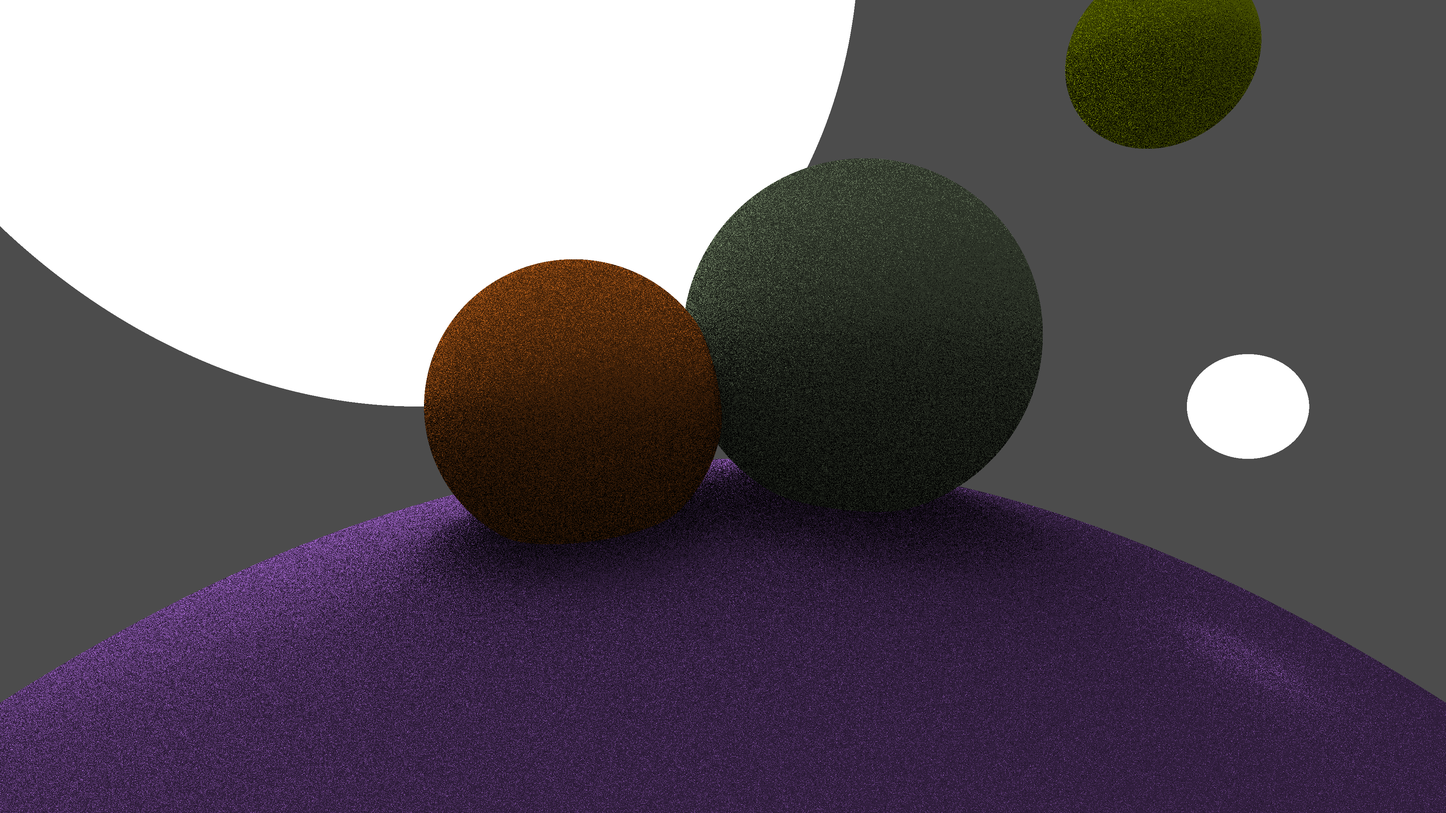
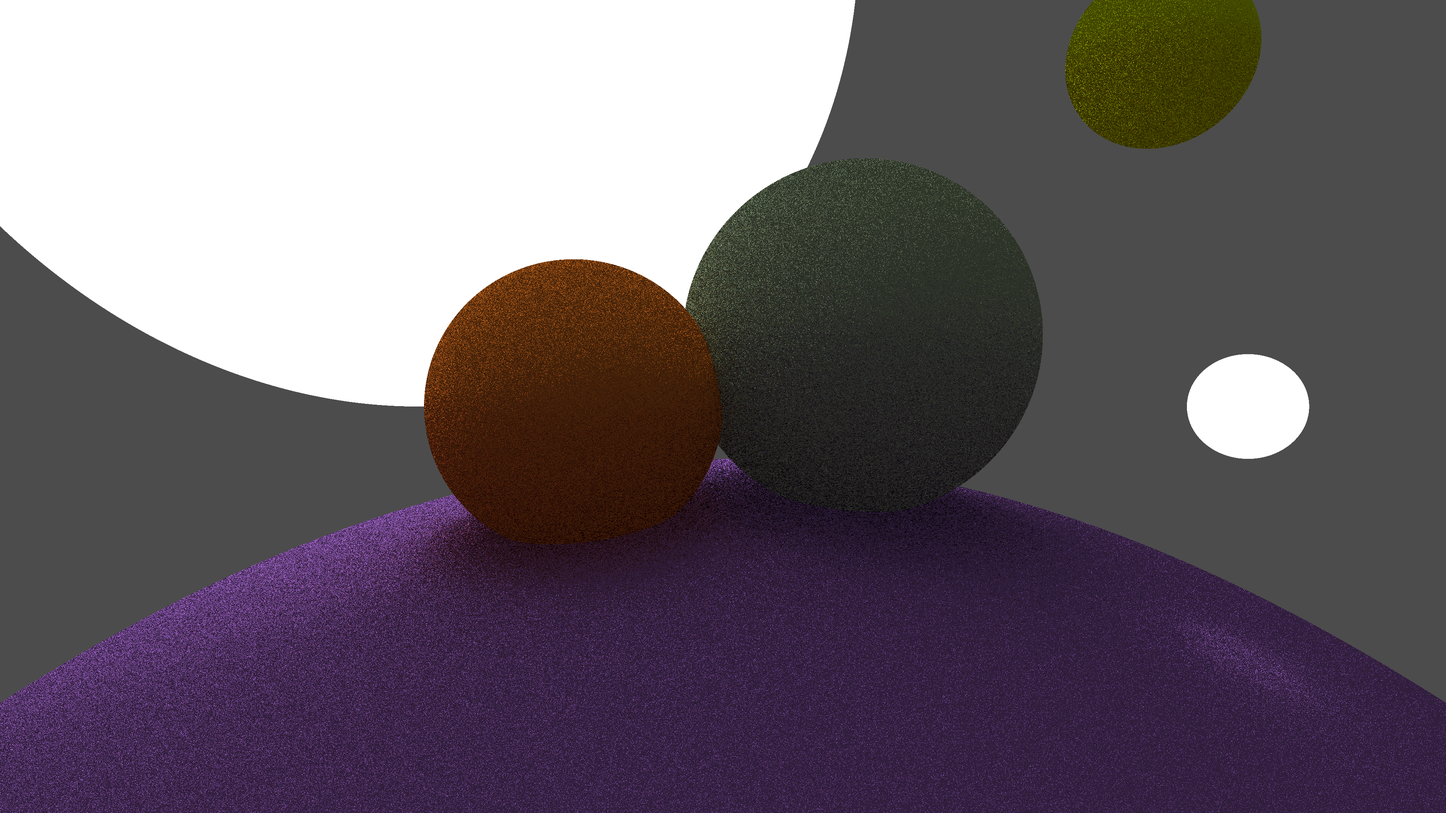
fix: update seed for every bounds

Changed region(s): [[0.25, 0.3102, 0.7812, 0.7755], [0.7188, 0.0, 0.875, 0.1861]]

diff --git a/core/types/rendering/Camera.cpp b/core/types/rendering/Camera.cpp
@@ -94,11 +94,12 @@ Graphics::Color Camera::_getIncomingLight(Math::Ray &ray, unsigned int rngState,
     Common::Graphics::Color incomingLight(0, 0, 0);
     Common::Graphics::Color rayColour(255, 255, 255);
 
-    for (int i = 0; i <= 15; i++) {
+    for (unsigned int i = 0; i <= 15; i++) {
         auto hitConfig = this->_computeRayCollision(ray, objects);
         if (hitConfig.didHit) {
+            auto randomSid = rngState + i;
             ray.origin = hitConfig.hitPoint;
-            ray.direction = this->_getRandomDirection(hitConfig.normal, rngState);
+            ray.direction = this->_getRandomDirection(hitConfig.normal, randomSid);
 
             Common::Graphics::Color emittedLight =
                     hitConfig.hitColor.emissionColor * hitConfig.hitColor.emissionStrength;
